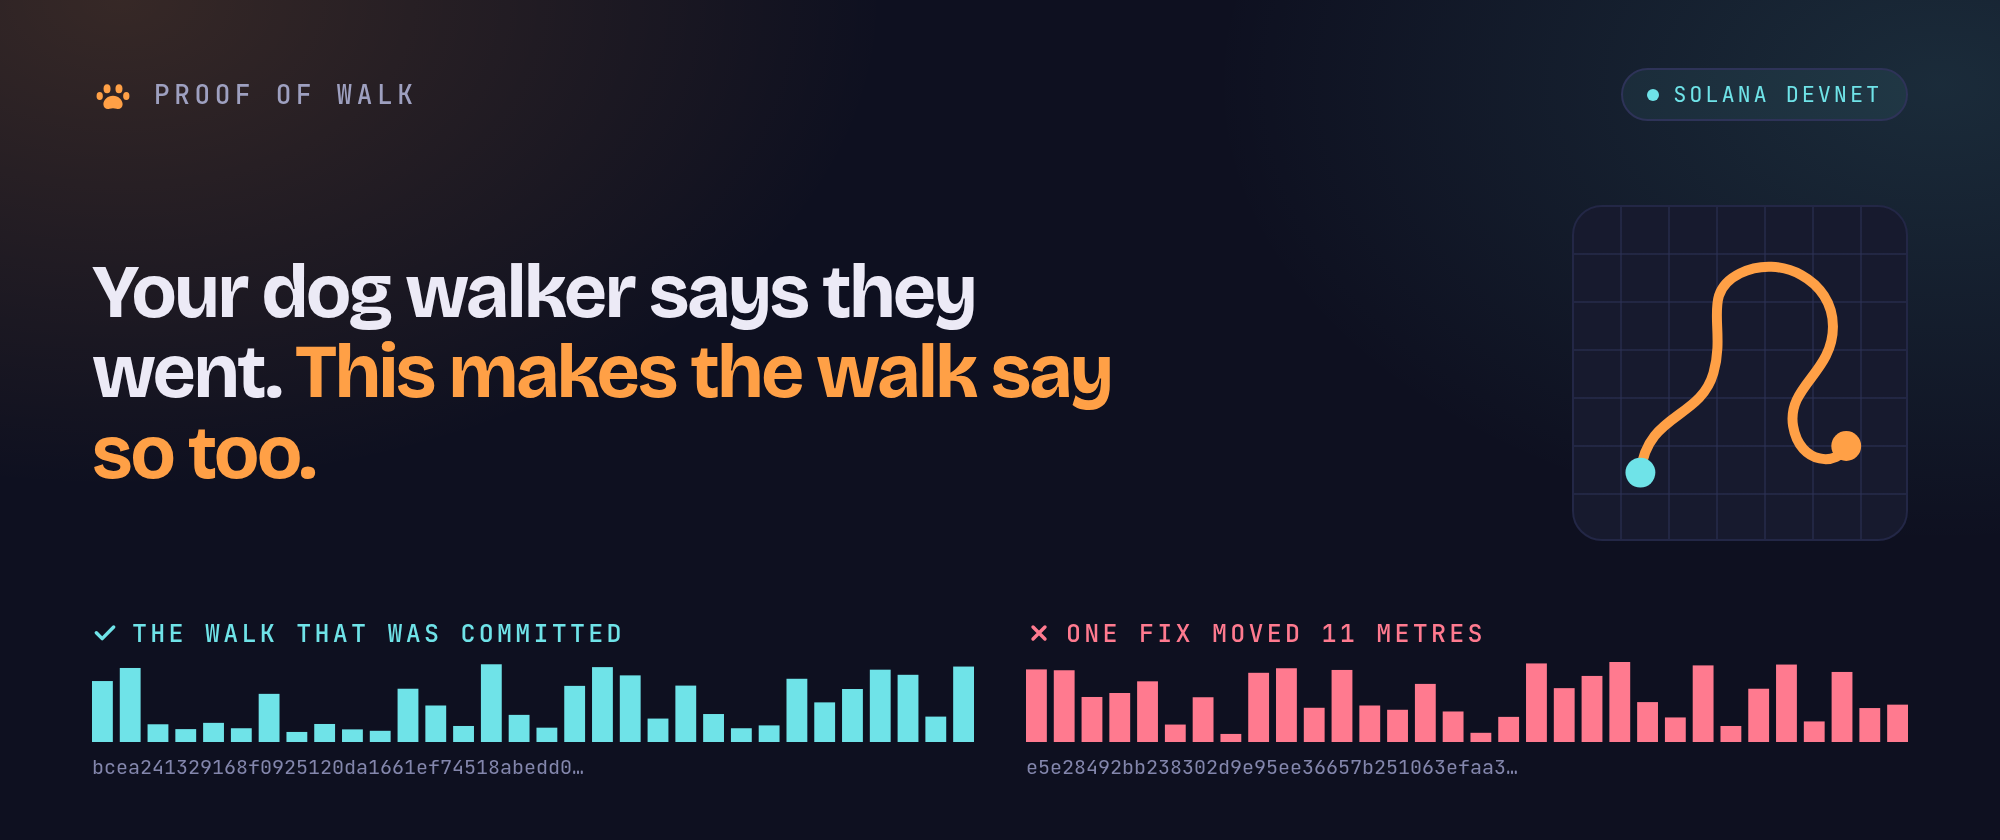
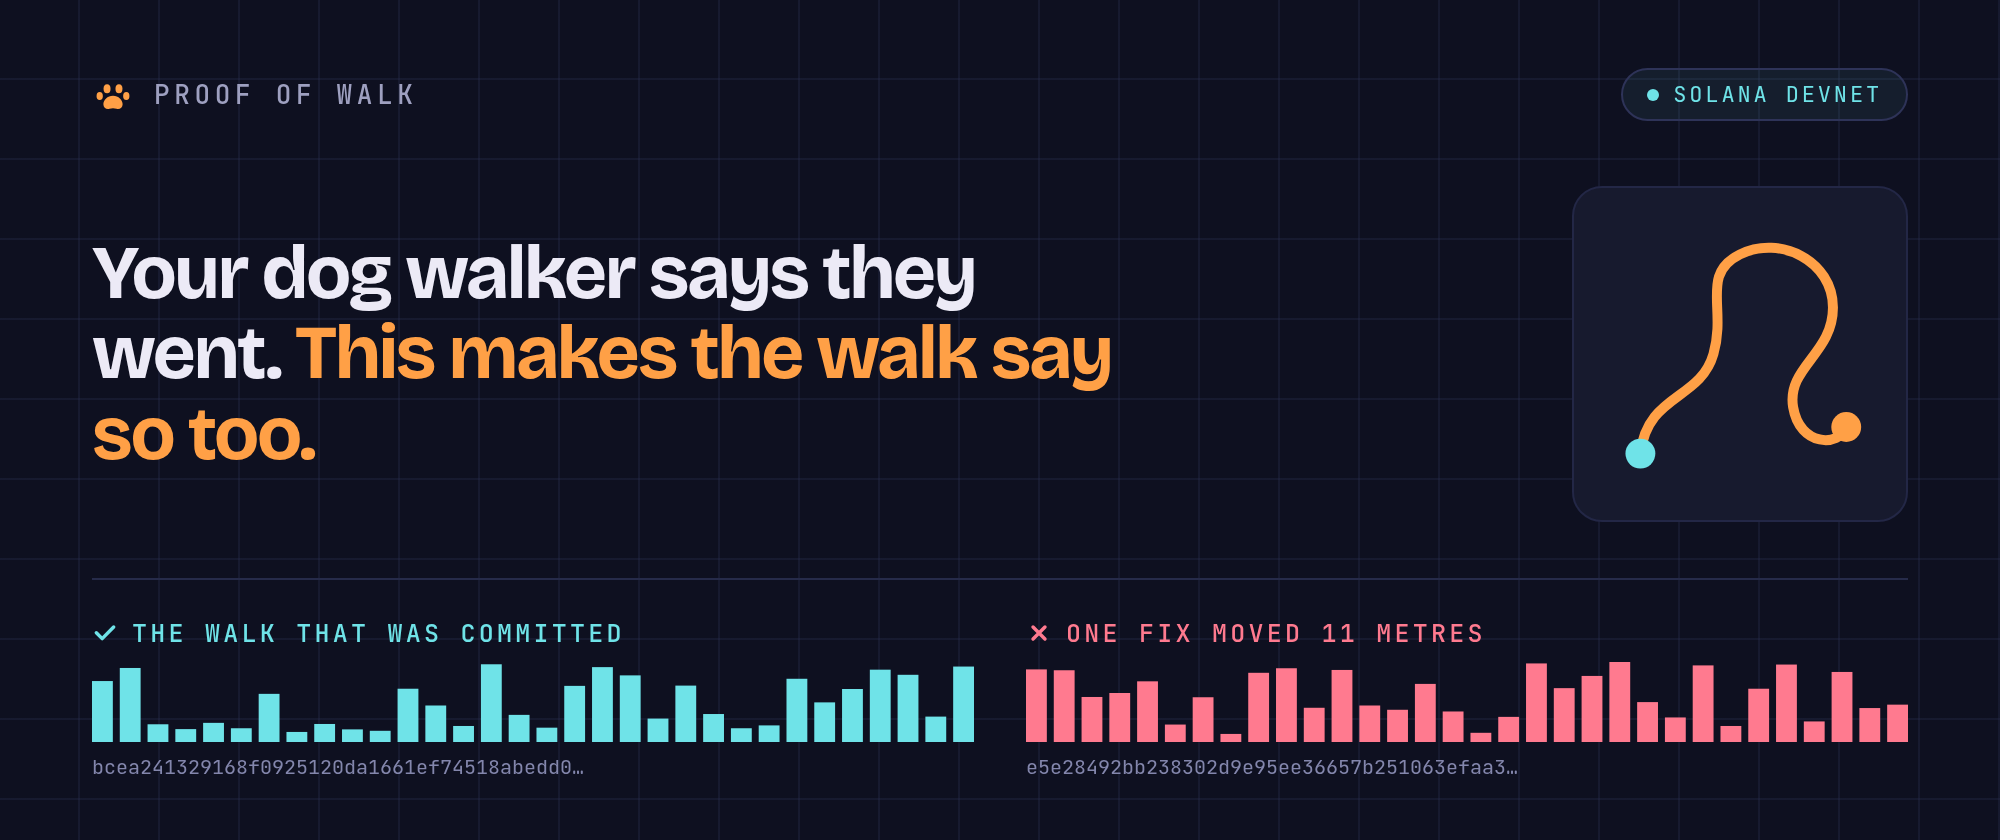
docs(cover): drop the ambient gradients for a flat ground
The two radial washes were doing the thing that makes a design read as
machine-made: atmosphere applied over a layout rather than structure belonging
to it. A dark panel with a coloured glow behind it is one of the most reliable
tells there is, and this project cannot afford to look generated.

Replaced with a flat ground, faint graph paper, and a hairline above the verdict
band. The grid is not decoration borrowed from somewhere else — it is the
surface the app already draws routes on, so the cover and the product are made
of the same material. The route now sits on a solid panel so it still reads as a
separate surface against a ruled page.

Colour is unchanged. Cyan and red are carrying the difference between a walk
that verifies and one that does not, and on a flat ground with nothing glowing
behind them they read as data rather than neon.

diff --git a/docs/cover.html b/docs/cover.html
@@ -6,11 +6,16 @@
 <style>
   * { box-sizing: border-box; margin: 0; }
   html, body { width: 1000px; height: 420px; overflow: hidden; }
-  body { position: relative; background: #0e1020; font-family: "Instrument Sans", system-ui, sans-serif; color: #eceaf6; }
-  .wash { position: absolute; inset: 0;
-    background:
-      radial-gradient(58% 88% at 6% 0%, rgba(255,160,70,.17), transparent 66%),
-      radial-gradient(52% 78% at 97% 10%, rgba(111,227,232,.13), transparent 70%); }
+  body {
+    position: relative;
+    background-color: #0e1020;
+    background-image: linear-gradient(rgba(46,51,88,.28) 1px, transparent 1px),
+                      linear-gradient(90deg, rgba(46,51,88,.28) 1px, transparent 1px);
+    background-size: 40px 40px;
+    background-position: -1px -1px;
+    font-family: "Instrument Sans", system-ui, sans-serif;
+    color: #eceaf6;
+  }
   .frame { position: relative; height: 100%; padding: 34px 46px 30px; display: flex; flex-direction: column; }
 
   .top { display: flex; align-items: center; justify-content: space-between; }
@@ -29,16 +34,13 @@
   h1 em { font-style: normal; color: #ffa046; }
 
   .route { flex: none; width: 168px; height: 168px; border-radius: 15px; border: 1px solid #232746;
-    background-color: #171a2e;
-    background-image: linear-gradient(rgba(46,51,88,.5) 1px, transparent 1px),
-                      linear-gradient(90deg, rgba(46,51,88,.5) 1px, transparent 1px);
-    background-size: 24px 24px; background-position: center; }
+    background-color: #171a2e; }
   .route svg { width: 100%; height: 100%; }
   .route path { fill: none; stroke: #ffa046; stroke-width: 3; stroke-linecap: round; stroke-linejoin: round; }
   .route .s { fill: #6fe3e8; } .route .e { fill: #ffa046; }
 
   /* The verdict pair: the one thing no other entry in this challenge can show. */
-  .verdicts { display: grid; grid-template-columns: 1fr 1fr; gap: 26px; }
+  .verdicts { border-top: 1px solid #262b4a; padding-top: 18px; display: grid; grid-template-columns: 1fr 1fr; gap: 26px; }
   .v { display: flex; flex-direction: column; gap: 6px; }
   .v__label { display: flex; align-items: center; gap: 7px; font-family: "JetBrains Mono", monospace;
     font-size: 12.5px; font-weight: 500; letter-spacing: .13em; text-transform: uppercase; }
@@ -51,7 +53,6 @@
     white-space: nowrap; overflow: hidden; text-overflow: ellipsis; }
 </style></head>
 <body>
-<div class="wash"></div>
 <div class="frame">
   <div class="top">
     <div class="mark">
